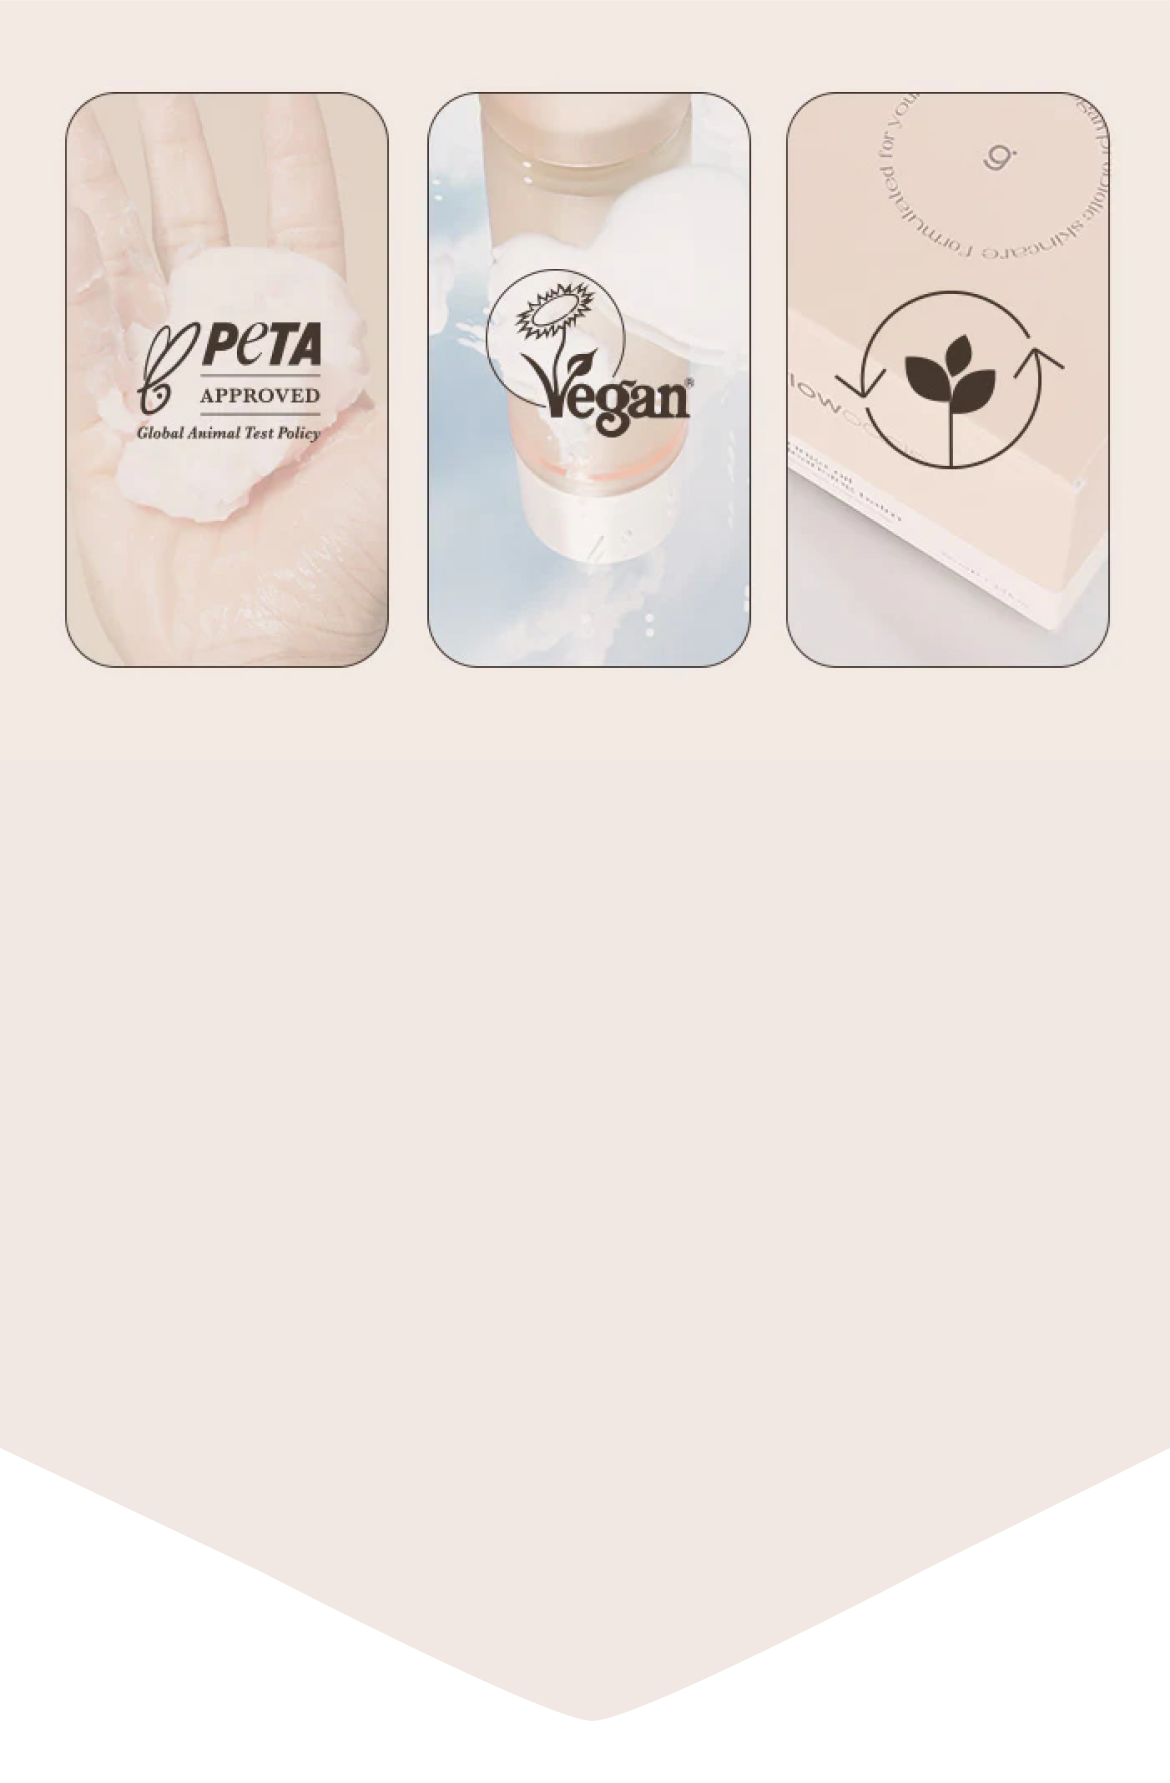
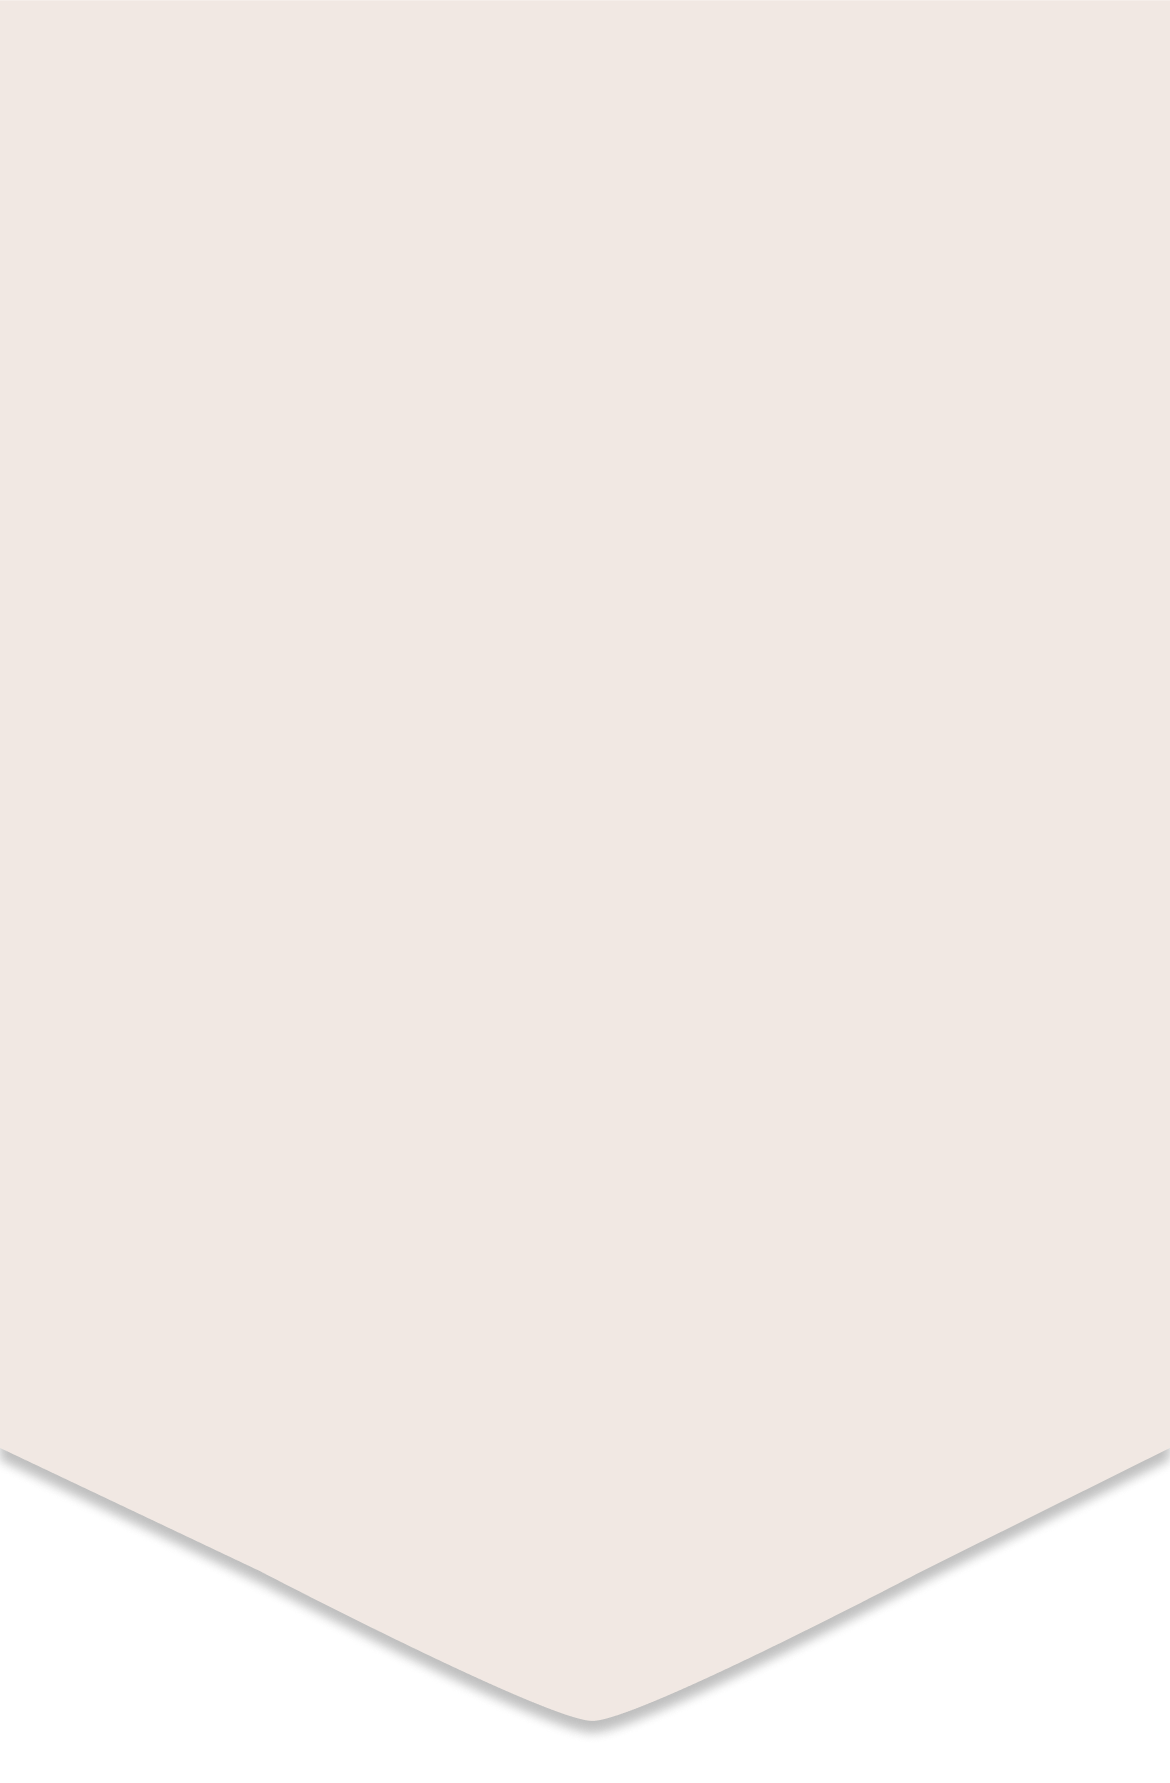
medial plus

diff --git a/components/pluses/threePluses.jsx b/components/pluses/threePluses.jsx
@@ -1,18 +1,59 @@
-
+import Image from "next/image"
 import style from "./threePluses.module.scss"
+import plusImg1 from "../../public/img/pluses/threePlusesPix-3x-1.png"
+import plusImg2 from "../../public/img/pluses/threePlusesPix-3x-2.png"
+import plusImg3 from "../../public/img/pluses/threePlusesPix-3x-3.png"
+import BG from "../../public/img/pluses/threePluses-3x.png"
 
 
 const PlusesMob = () => {
 
     return (
-        <div className={style.plusContainer}>            
-            <div>
+        <>
+        <div className="flex relative justify-center">
+            <div className="w-screen" >
+                <Image 
+                src={BG}
+                height={600}
+                layout="responsive"
+                objectFit="cover"            
+                />
             </div>
+            <div className="flex absolute gap-5 mx-auto">
+        <Image 
+            src={plusImg1}
+            alt="plusImg1"
+            width={109}
+            height={190}
+            
+            />
+            <Image 
+            src={plusImg2}
+            alt="plusImg2"
+            width={109}
+            height={190}
+            
+            />
+            <Image 
+            src={plusImg3}
+            alt="plusImg3"
+            width={109}
+            height={190}
+           
+            />
         </div>
+        {/* plusesTitle */}
+        <div className="absolute text-center color-textColor top-[240px]">
+            <h1>чистий, безпечний і екологічний</h1>
+        </div>
+        
+        </div>
+        
+        
+        </>
     )
 
 }
 
 export default PlusesMob
 
-// {style.plusContainer}

diff --git a/components/bestsellers/besrsellerSwiperMob.jsx b/components/bestsellers/besrsellerSwiperMob.jsx
@@ -42,6 +42,7 @@ export default function bestsellProd() {
       <Swiper
         effect={'coverflow'}
         grabCursor={true}
+        loop={true}
         centeredSlides={true}
         slidesPerView={'auto'}
         coverflowEffect={{
@@ -51,7 +52,7 @@ export default function bestsellProd() {
           modifier: 1,
           slideShadows: true,
         }}
-        pagination={true}
+        // pagination={true}
         modules={[EffectCoverflow, Pagination]}
         className="mySwiper"
       >

diff --git a/components/pluses/threePluses.module.css b/components/pluses/threePluses.module.css
@@ -1,10 +1,1 @@
-@media screen and (min-width: 390px) and (max-width: 767px) {
-  .plusContainer {
-    display: flex;
-    background-image: url(../../public//img//pluses//threePluses-1x.png);
-    background-repeat: no-repeat;
-    background-size: cover;
-    width: 100vw;
-    height: 700px;
-  }
-}/*# sourceMappingURL=threePluses.module.css.map */
+/*# sourceMappingURL=threePluses.module.css.map */

diff --git a/tailwind.config.js b/tailwind.config.js
@@ -21,7 +21,8 @@ module.exports = {
     },
     colors: {
       mainBgColor: "#F1E8E3",
-      addBgColor: "#ffffff"
+      addBgColor: "#ffffff",
+      textColor: "#45372E",
     },
   },
   plugins: [],
